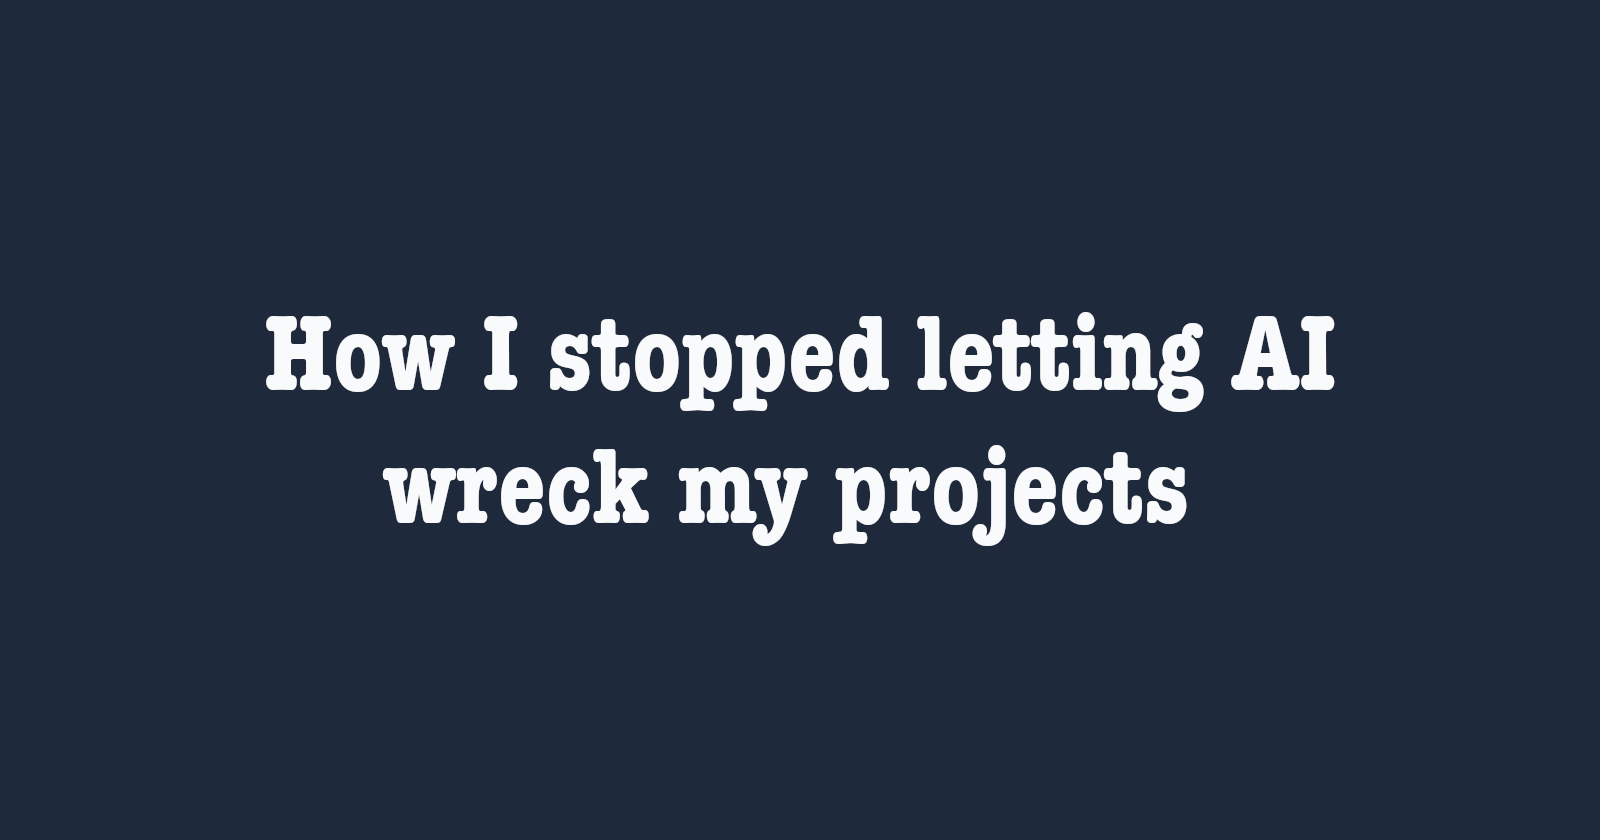
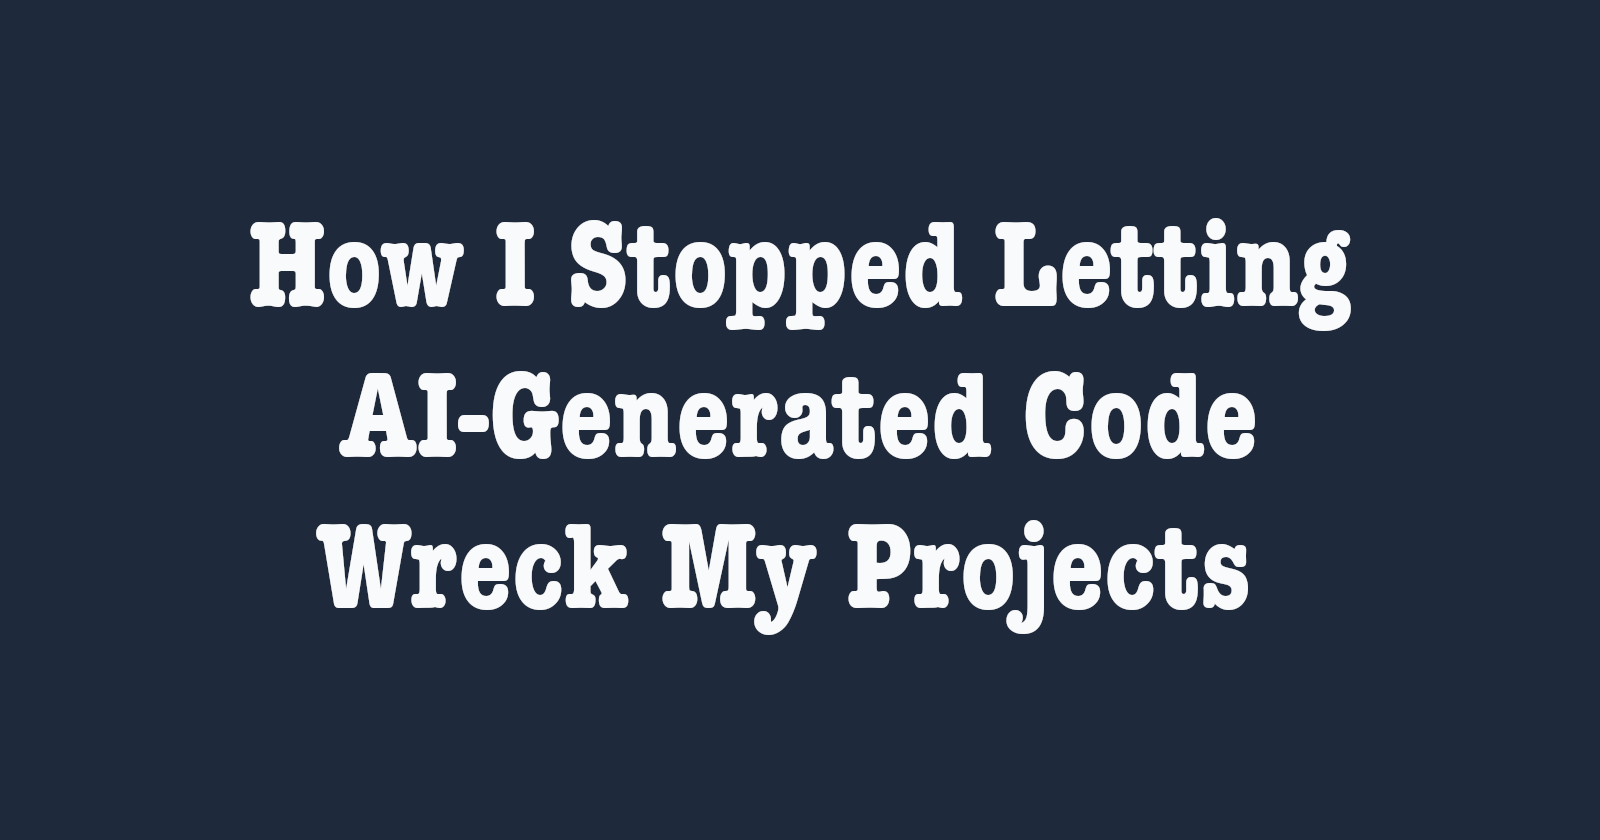
blog

Changed region(s): [[0.1562, 0.2476, 0.8438, 0.7738]]

diff --git a/blog/a-blog-RUNNING 4.md b/blog/a-blog-RUNNING 4.md
@@ -6,13 +6,20 @@ AI can generate code faster than you can understand it. That's the problem.
 
 I usually realize things have gone wrong late at night. Tests are green. The house is quiet. I'm rereading the same function for the third time, and I can't explain why it exists without scrolling. That's when I know the code got ahead of me — not because it's bad, but because I let something else drive for too long.
 
-I've spent the last couple of years building real systems with AI — not demos, not experiments. And more than once, I let the code outrun my ability to reason about it. Nothing was obviously broken. Things just became harder to change, harder to trust, harder to explain.
-
 By the time I noticed, starting over felt cheaper than fixing what I had.
 
 I'm not an AI expert. I'm a senior engineer with about eight years of experience and enough failed projects to recognize that pattern when it shows up.
 
 After repeating that mistake enough times, a few hard rules emerged. Not theory. Just constraints that kept me in control while still letting AI be useful. I ended up using them end-to-end in an app I rely on every day — [the code is public](https://github.com/weskerllc/cronicorn).
+
+**The rules:**
+
+1. Enforce clean architecture — hard boundaries AI can't blur
+2. Model the domain first — use AI to think, not build
+3. Build outward — ports, in-memory adapters, then real infrastructure last
+4. Write decisions down — ADRs keep you and AI aligned over time
+5. Test the domain, lint everything — AI can pass tests and still write unmaintainable code
+6. Control the feedback loop — describe behavior first, tighten tests, never let existing tests break
 
 ---
 
@@ -20,23 +27,37 @@ After repeating that mistake enough times, a few hard rules emerged. Not theory.
 
 If you don't enforce clear, hard boundaries early, AI will quietly wreck your project for you.
 
-The problem isn't that the code is bad. It's that it grows faster than your ability to understand it. AI can generate far more code than you can reason about, and that flips the usual bottleneck. Typing stops being the issue. Comprehension becomes the problem.
+AI can generate far more code than you can reason about, and that flips the usual bottleneck.
+
+> Typing stops being the issue. Comprehension becomes the problem.
 
 When there aren't hard boundaries, everything starts bleeding into everything else. Logic drifts. Responsibilities blur. Small changes get risky. Eventually, the project becomes something you don't want to touch.
-
-After enough of that, I stopped optimizing for speed or elegance. I started optimizing for one thing: clear, enforced boundaries.
 
 The structure that's held up best for me is hexagonal architecture. Not because it's trendy or elegant, but because it makes it hard to mix concerns — even when code is being generated faster than you can read it.
 
 I used to think it was overkill. Too many files. Too much ceremony. What changed wasn't team size. It was output. When AI enters the picture, "less code" stops being the main goal. Understanding does. And strict boundaries turn out to be the cheapest way to buy that back.
 
+INSERT IMAGE HERE
+
+Everything that follows builds on this.
+
 ---
 
 ## Rule #2: Model the Domain First — With AI's Help
 
-This is one of the few prompts I actually reuse. At this stage, I'm not asking AI to build anything. I'm using it to help me think clearly — and name things correctly.
+At this stage, I'm not asking AI to build anything. I'm using it to help me think clearly — and name things correctly. This is one of the few prompts I actually reuse:
 
-I tell it: here's the system I'm building. Ignore frameworks, databases, and infrastructure. Help me identify the core concepts, the data they need, the rules that must never be broken, and what goes in and out. Respond using plain TypeScript interfaces and pure functions. No side effects.
+```
+I'm building a system that does X.
+Ignore frameworks, databases, and infrastructure.
+Help me identify:
+- The core concepts in the system
+- The data those concepts need
+- The rules that must never be broken
+- What goes in and what comes out
+Respond using plain TypeScript interfaces and pure functions.
+No side effects.
+```
 
 The goal isn't completeness. It's clarity. If you get the names wrong here, everything downstream gets harder. If you get them mostly right, the rest of the system tends to fall into place.
 
@@ -52,13 +73,13 @@ These needs become ports — contracts where the domain says "I need this to exi
 
 Then you write the dumbest possible adapter: in-memory. A `Map<string, T>`. This is boring on purpose. It lets you run the system immediately, keeps feedback loops short, and gives AI something safe to refactor without touching real data. It proves the architecture works before you've committed to anything expensive.
 
-The application layer sits between domain and adapters. It doesn't contain business rules — it just strings steps together. Load something. Check it exists. Apply a rule. Save the result. This code knows *when* things happen, not *why* they're allowed.
+The application layer sits between domain and adapters. It doesn't contain business rules — it just strings steps together. Load something. Check it exists. Apply a rule. Save the result.
 
-Wire it up in one place — `main.ts` — the only file allowed to know about concrete implementations. Try to break it before you add a real database. If something feels unclear now, adding Postgres won't fix it. It will just bury the problem.
+> This code knows *when* things happen, not *why* they're allowed.
 
-Once you're confident, swap in a real adapter. Nothing else should change. If it does, something broke upstream.
+Wire it all up in `main.ts` — the only file allowed to know about concrete implementations. Try to break it before you add a real database. If something feels unclear now, adding Postgres won't fix it — it will just bury the problem. Once you're confident, swap in a real adapter. Nothing else should change.
 
-(For the full working example of this pattern — domain, ports, adapters, application layer — [see the repo](https://github.com/weskerllc/cronicorn).)
+(For the full working example — domain, ports, adapters, application layer — [see the repo](https://github.com/weskerllc/cronicorn).)
 
 ---
 
@@ -66,9 +87,27 @@ Once you're confident, swap in a real adapter. Nothing else should change. If it
 
 If you don't write decisions down, you'll argue with your past self later. Or worse — with an AI that has no idea why something exists.
 
-I keep a `.adr/` folder at the root of every repo. Any meaningful architectural decision gets a short markdown file answering four questions: what decision was made, why it was made, what alternatives were considered, and what tradeoffs were accepted.
+I keep a `.adr/` folder at the root of every repo. Any meaningful architectural decision gets a short markdown file:
 
-ADRs become guardrails. When AI suggests a change that contradicts a past decision, you can point at the file. When you're tempted to cut a corner at midnight, the ADR reminds you why you didn't cut it last time.
+```markdown
+# ADR-003: Use in-memory adapter for first pass
+
+## Decision
+All new features start with an in-memory adapter before
+adding a real database implementation.
+
+## Why
+Keeps feedback loops short. Proves the domain logic works
+before committing to infrastructure. Easier for AI to
+refactor safely.
+
+## Tradeoffs
+Delays real persistence work. Requires a swap step later.
+Worth it — we've caught three domain modeling mistakes
+this way that would have been buried in SQL.
+```
+
+When AI suggests a change that contradicts a past decision, you can point at the file. When you're tempted to cut a corner at midnight, the ADR reminds you why you didn't cut it last time.
 
 ---
 
@@ -92,8 +131,6 @@ The first round is usually wrong in small ways. Off-by-one in the logic. Tests t
 
 Two rules after that: tests must pass, and existing tests never break. If AI can't meet both, I roll back and re-prompt. No exceptions.
 
-Define an MVP. Everything else gets written down and ignored. Keep one source of truth. Everything else points to it.
-
 ---
 
 ## The Part I Don't Love Admitting
@@ -102,13 +139,4 @@ Letting AI run feels good. Watching files appear, functions fill in, edge cases 
 
 I still mess this up. I still catch myself reading code that technically makes sense but doesn't feel owned yet. The difference now is that I notice sooner. When something feels slippery, I stop. I cut it back to the domain. It's annoying. It's slower. It's also cheaper than losing two days to a system I don't trust.
 
----
-
-**TL;DR — The Rules:**
-
-1. **Enforce clean architecture** — hexagonal or similar, with hard boundaries AI can't blur
-2. **Model the domain first** — use AI to think, not build, in the early stages
-3. **Build outward** — ports, in-memory adapters, then real infrastructure last
-4. **Write decisions down** — ADRs keep you and AI aligned over time
-5. **Test the domain, lint everything** — AI can pass tests and still write unmaintainable code
-6. **Control the feedback loop** — describe behavior first, tighten tests, never let existing tests break
+The AI didn't wreck the project. I did, by not staying in the driver's seat.
